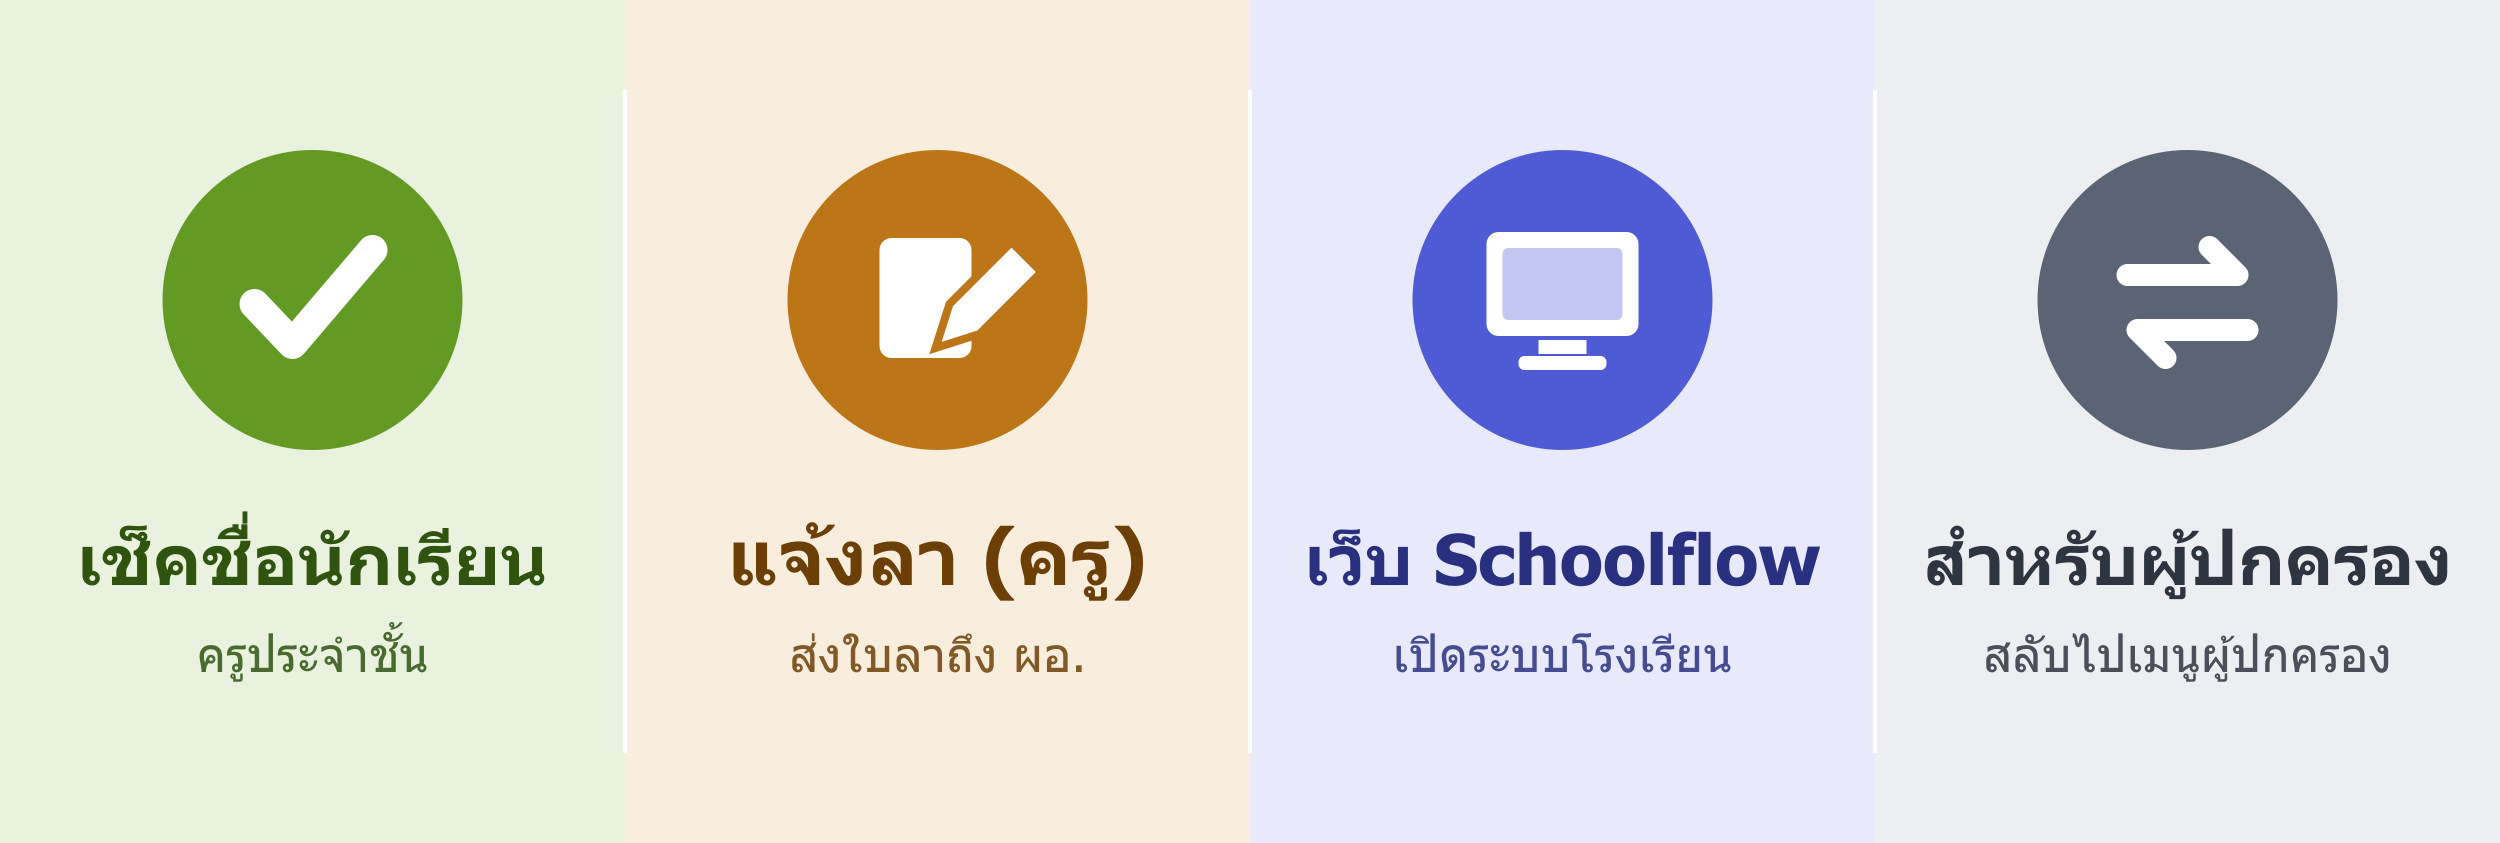
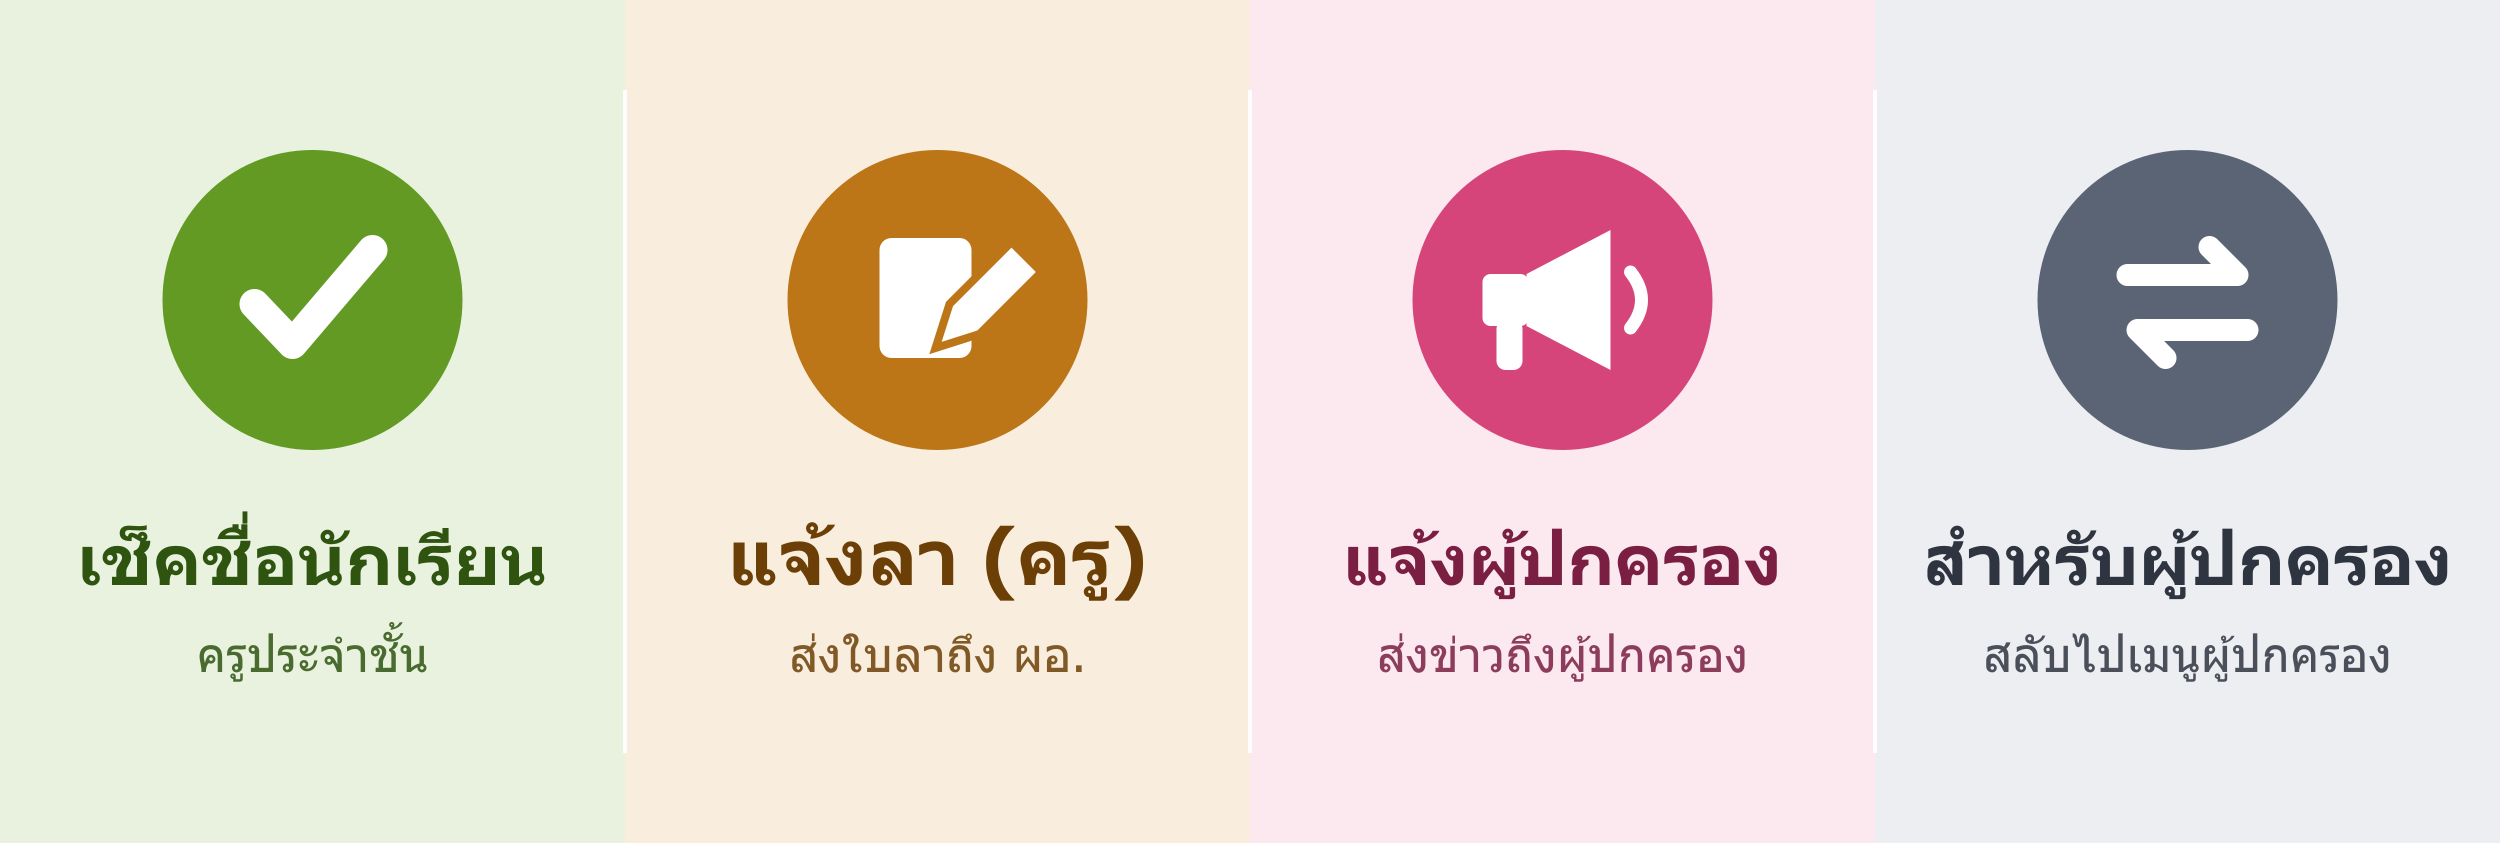
feat: เมนูครูช่อง 3 → แจ้งผู้ปกครอง (?page=notify หน้ารอพัฒนา + ปุ่มเปิดเว็บ) · เมนูผู้ปกครองการบ้าน 'งานที่ครูสั่ง'

Changed region(s): [[0.5616, 0.1851, 0.6864, 0.5552], [0.4992, 0.6168, 0.7488, 0.7094], [0.5304, 0.7402, 0.7176, 0.8019]]

diff --git a/schoolflow.html b/schoolflow.html
@@ -183,6 +183,19 @@
   <div class="content" id="homeworkBody"><div class="empty-box">กำลังโหลด...</div></div>
 </div>
 
+<!-- ===== NOTIFY PARENTS (ครู · กำลังพัฒนา) ===== -->
+<div class="page" id="notifyPage">
+  <div class="header" style="background:#D6457A;">
+    <div class="header-badge"><span>📣</span><span>สำหรับครู</span></div>
+    <h1>แจ้งผู้ปกครอง</h1>
+    <p>ส่งข่าวถึงผู้ปกครองผ่าน LINE ของโรงเรียน</p>
+  </div>
+  <div class="content">
+    <div class="section"><div class="empty-box">🚧 ฟีเจอร์นี้กำลังพัฒนา<br>เร็ว ๆ นี้ครูจะส่งข่าวถึงผู้ปกครองได้จากที่นี่</div></div>
+    <button class="submit-btn navy" onclick="openWeb()"><span>🖥</span><span>เปิดเว็บ Schoolflow</span></button>
+  </div>
+</div>
+
 <!-- ===== TEACHER BIND ===== -->
 <div class="page" id="bindPage">
   <div class="header navy">
@@ -307,6 +320,7 @@
       else if(page==='homework') initHomework();
       else if(page==='approve') initTeacher();
       else if(page==='staffleave') initStaffLeave();
+      else if(page==='notify') show('notifyPage');
       else initParent();
     }catch(e){document.getElementById('connMsg').textContent='❌ '+e.message;}
   }
@@ -462,6 +476,12 @@
     if(d===1) return ['ส่งพรุ่งนี้','#b45309','#fef3c7'];
     return ['อีก '+d+' วัน','#6d4fc2','#efeafb'];
   }
+  /* ===== NOTIFY (placeholder) ===== */
+  function openWeb(){
+    const url='https://schoolflow-74ffd.web.app/dashboard?school='+encodeURIComponent(SCHOOL);
+    try{ liff.openWindow({url, external:true}); }catch(e){ location.href=url; }
+  }
+
   async function initHomework(){
     show('homeworkPage');
     const body=document.getElementById('homeworkBody');
